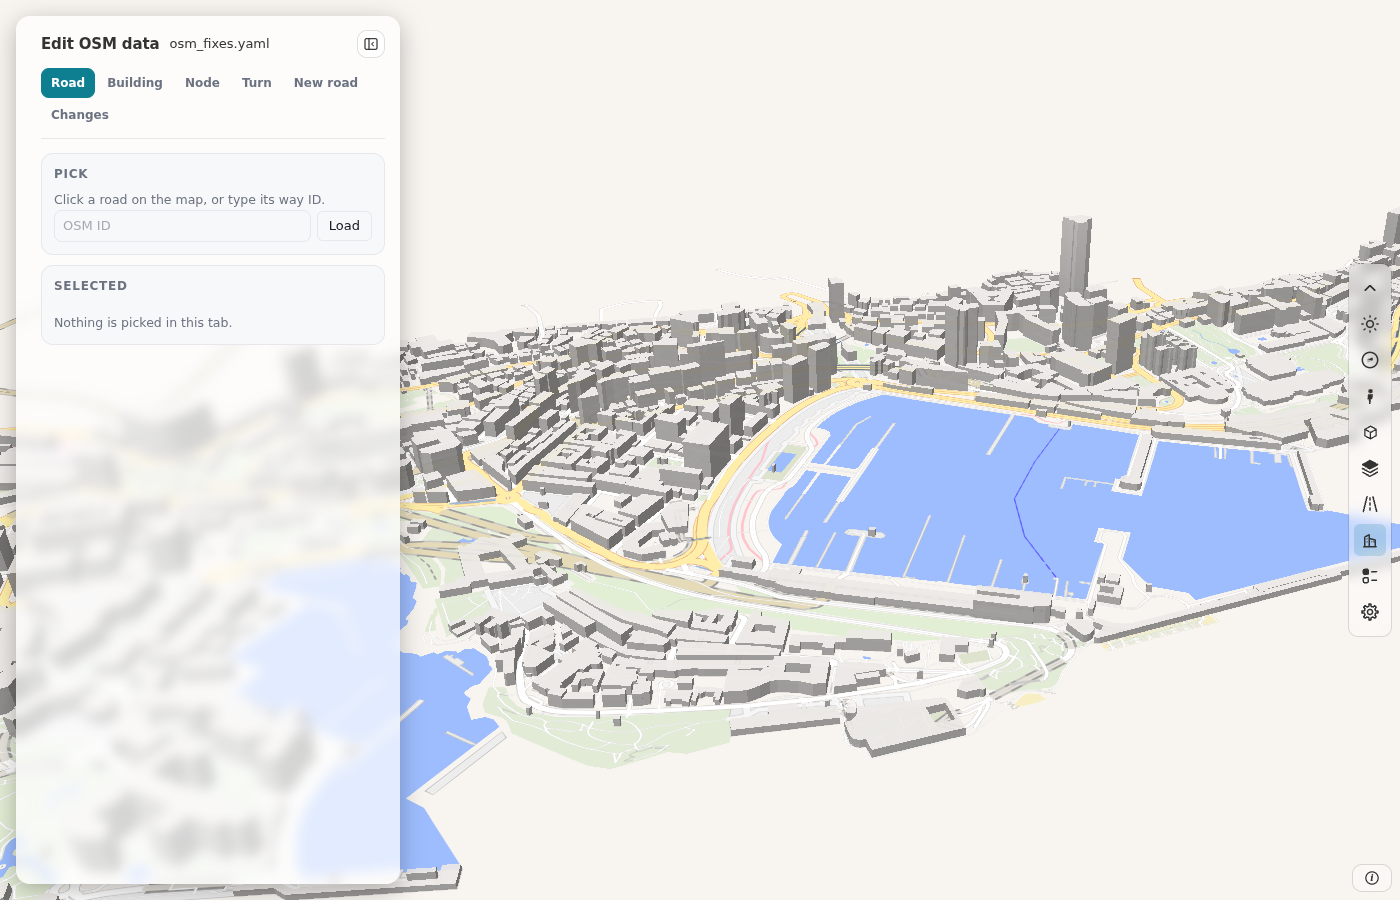
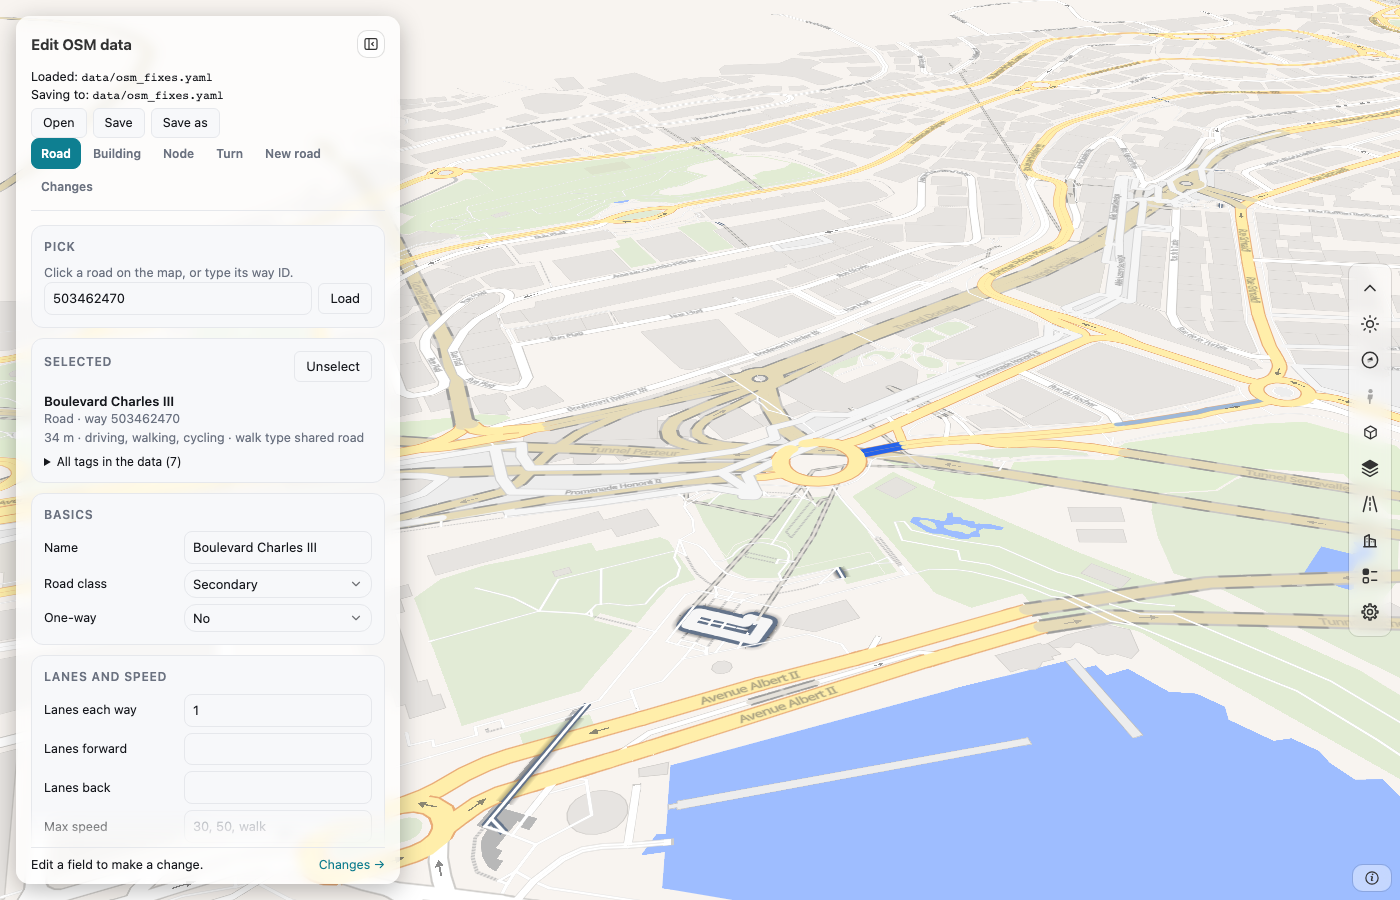
Editor pictures with a picked object and the two files; one line for each file

diff --git a/web/fixes_editor/fixes_panel.js b/web/fixes_editor/fixes_panel.js
@@ -1044,7 +1044,7 @@ export async function initFixesPanel(ctx) {
     write: async (name, txt) => download(name, txt),
   };
   fr.head.insertAdjacentHTML("afterbegin", `<div id="fix-files" class="small">
-    <p id="fix-names"><span>Loaded: <code id="fix-loaded"></code></span> · <span>Saving to: <code id="fix-saving"></code></span></p>
+    <p id="fix-names">Loaded: <code id="fix-loaded"></code><br>Saving to: <code id="fix-saving"></code></p>
     <p id="fix-built" hidden>Built with <code></code>. <a href="#" class="link" role="button" id="fix-built-load">Load it?</a></p>
     <div class="row"><button id="fix-open" type="button">Open</button><button id="fix-file-save" type="button">Save</button><button id="fix-save-as" type="button">Save as</button><input id="fix-open-file" type="file" accept=".yaml,.yml" hidden></div>
     <form id="fix-path" hidden><label for="fix-path-in" id="fix-path-label"></label><div class="row"><input id="fix-path-in" type="text" spellcheck="false" autocomplete="off"><button class="sb-primary" type="submit" id="fix-path-ok">OK</button><button type="button" id="fix-path-no">Cancel</button></div></form>

diff --git a/scripts/notebook_chapter5.py b/scripts/notebook_chapter5.py
@@ -327,8 +327,8 @@ net.edit(load="osm_fixes.yaml", save="osm_fixes_v2.yaml")
 'http://127.0.0.1:8790/'
 ```
 
-`net.edit()` starts the page in the background and gives its address. Open the address in your browser. The line
-over the tabs shows the two files: **Loaded: osm_fixes.yaml · Saving to: osm_fixes_v2.yaml**. Each change goes into
+`net.edit()` starts the page in the background and gives its address. Open the address in your browser. Two lines
+over the tabs show the files: **Loaded: osm_fixes.yaml** and **Saving to: osm_fixes_v2.yaml**. Each change goes into
 the save file at once. **Open** loads another file, **Save** writes the list, and **Save as** writes it to another
 file. A path is relative to the folder where Python runs.
 

diff --git a/scripts/edit_page_pictures.py b/scripts/edit_page_pictures.py
@@ -51,7 +51,7 @@ with sync_playwright() as p:
     page.goto(URL)
     page.wait_for_function("window.fixesPanel && window.map && window.map._loaded", timeout=60_000)
 
-    view(page, ROAD, 16.8)
+    view(page, ROAD, 17.4)
     pick(page, ROAD)
     page.wait_for_timeout(800)
     shot(page, "edit-page.png")

diff --git a/docs/guides/edit-osm-data.md b/docs/guides/edit-osm-data.md
@@ -25,7 +25,7 @@ variants of it, and the base file does not change.
 
 ## The files
 
-The line over the tabs shows the two files: **Loaded: osm_fixes.yaml · Saving to: osm_fixes_v2.yaml**, or **not chosen yet**.
+The lines over the tabs show the two files: **Loaded: osm_fixes.yaml** and **Saving to: osm_fixes_v2.yaml**, or **not chosen yet**.
 
 | Button | Does |
 |---|---|
@@ -39,7 +39,7 @@ runs. In duckOSM Studio, **Open** reads a file from your computer and **Save** d
 When the database was built with a fixes file, the page shows **Built with data/osm_fixes.yaml. Load it?** The page does not load
 it by itself. The first write to a file that exists keeps a copy of it as `FILE.bak`.
 
-![The page of duckosm edit: the panel Edit OSM data at the left, the roads of the database on the base map, tilted, with the buildings in 3D](../images/edit-page.png)
+![The page of duckosm edit: the panel Edit OSM data at the left with the two files over the tabs and Boulevard Charles III picked, and the roads of the database on the base map, tilted](../images/edit-page.png)
 
 | Tab | What you change | Key in the file |
 |---|---|---|

diff --git a/web/fixes_editor/README.md b/web/fixes_editor/README.md
@@ -62,7 +62,7 @@ The panel returns `text()` (the fixes file, or `null` when there is no change), 
 
 ## The fixes files
 
-Over the tabs, the panel shows **Loaded: X · Saving to: Y** (or **not chosen yet**), with **Open**, **Save** and **Save as**. The panel
+Over the tabs, the panel shows **Loaded: X** and **Saving to: Y** (or **not chosen yet**), with **Open**, **Save** and **Save as**. The panel
 never chooses a file name. **Open** asks first when the list has changes, and after it the save file is not chosen, so a write never puts
 the list of one file into another file. The host gives `files`:
 
